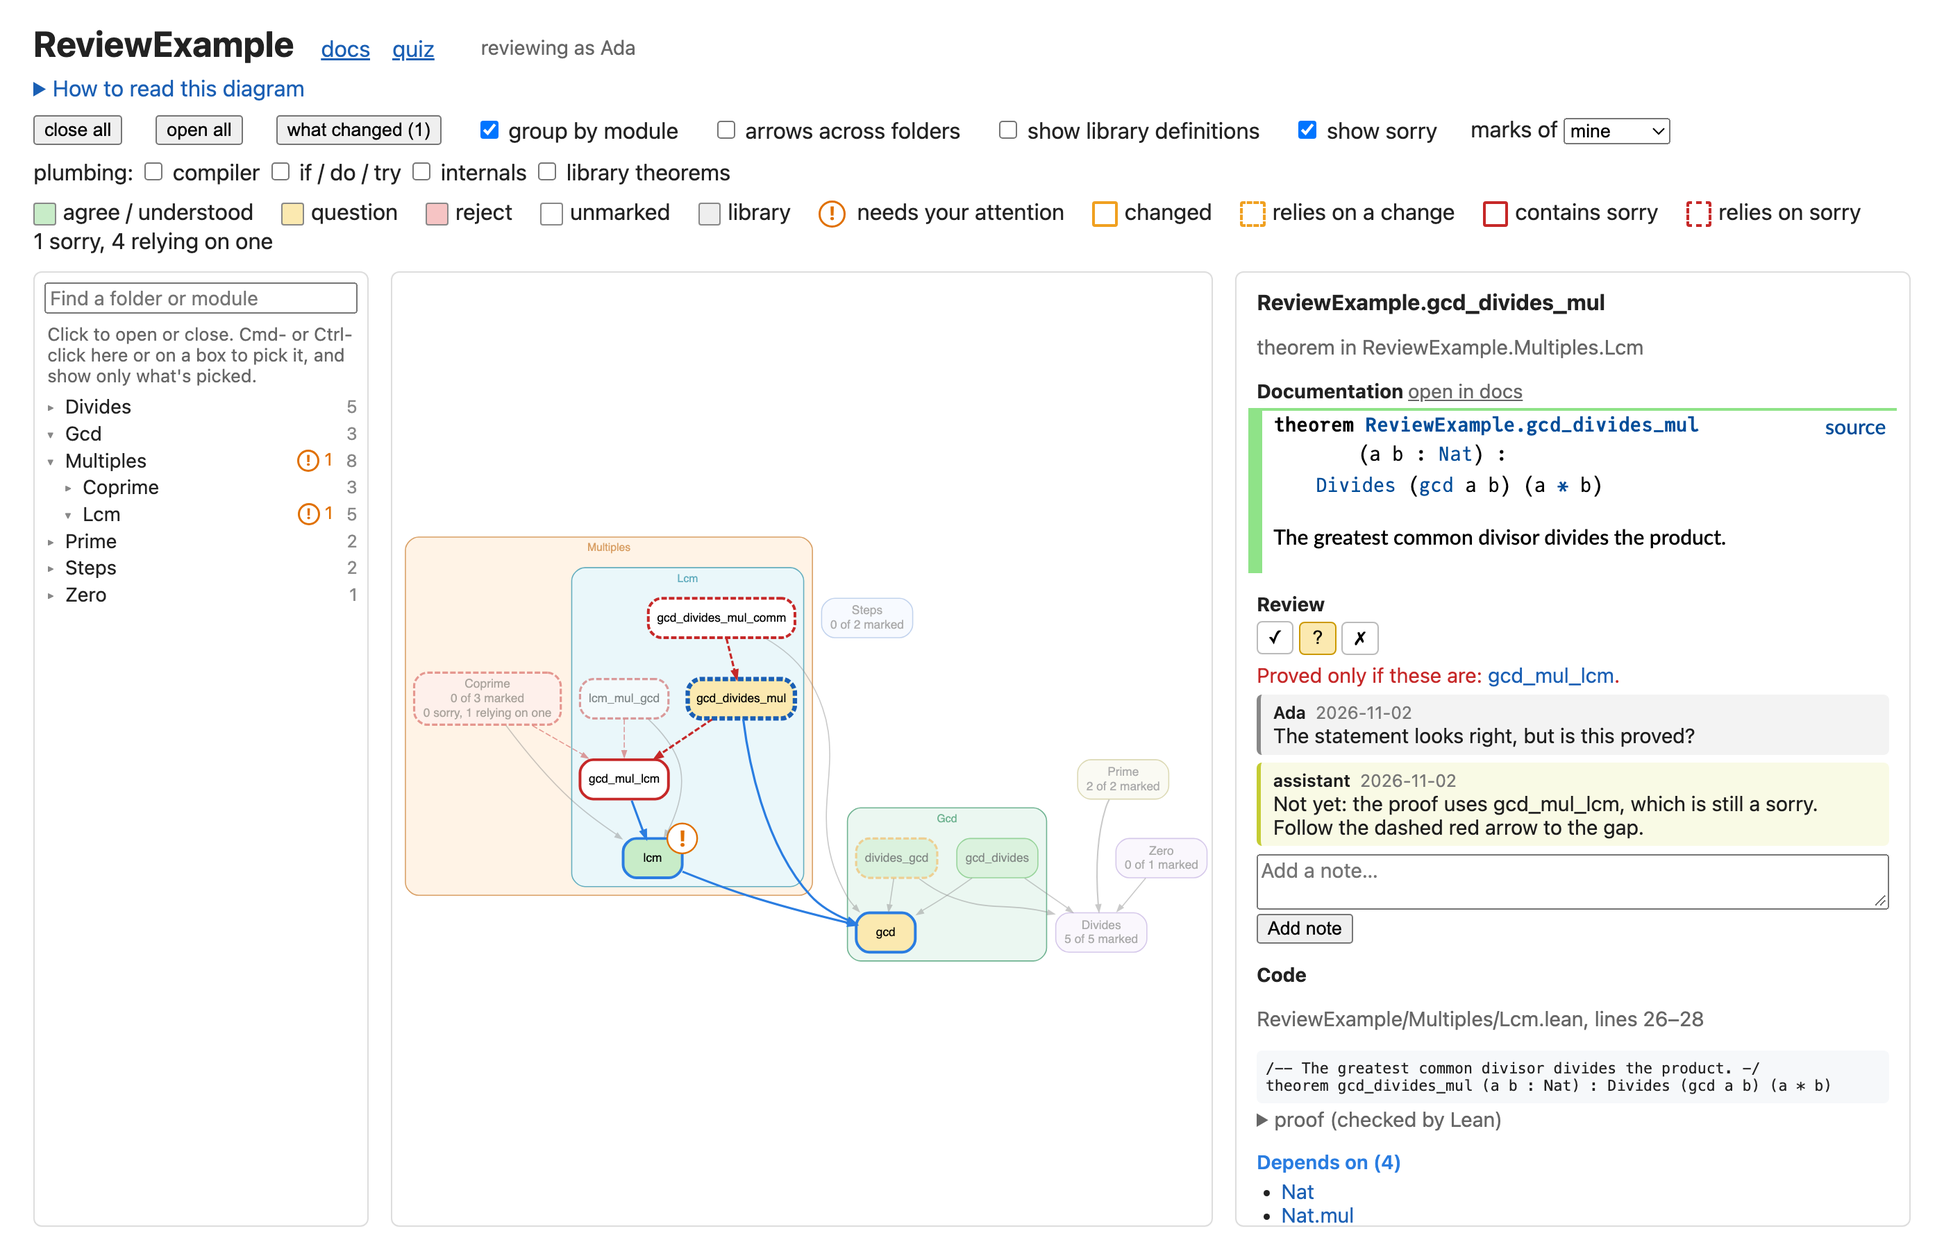
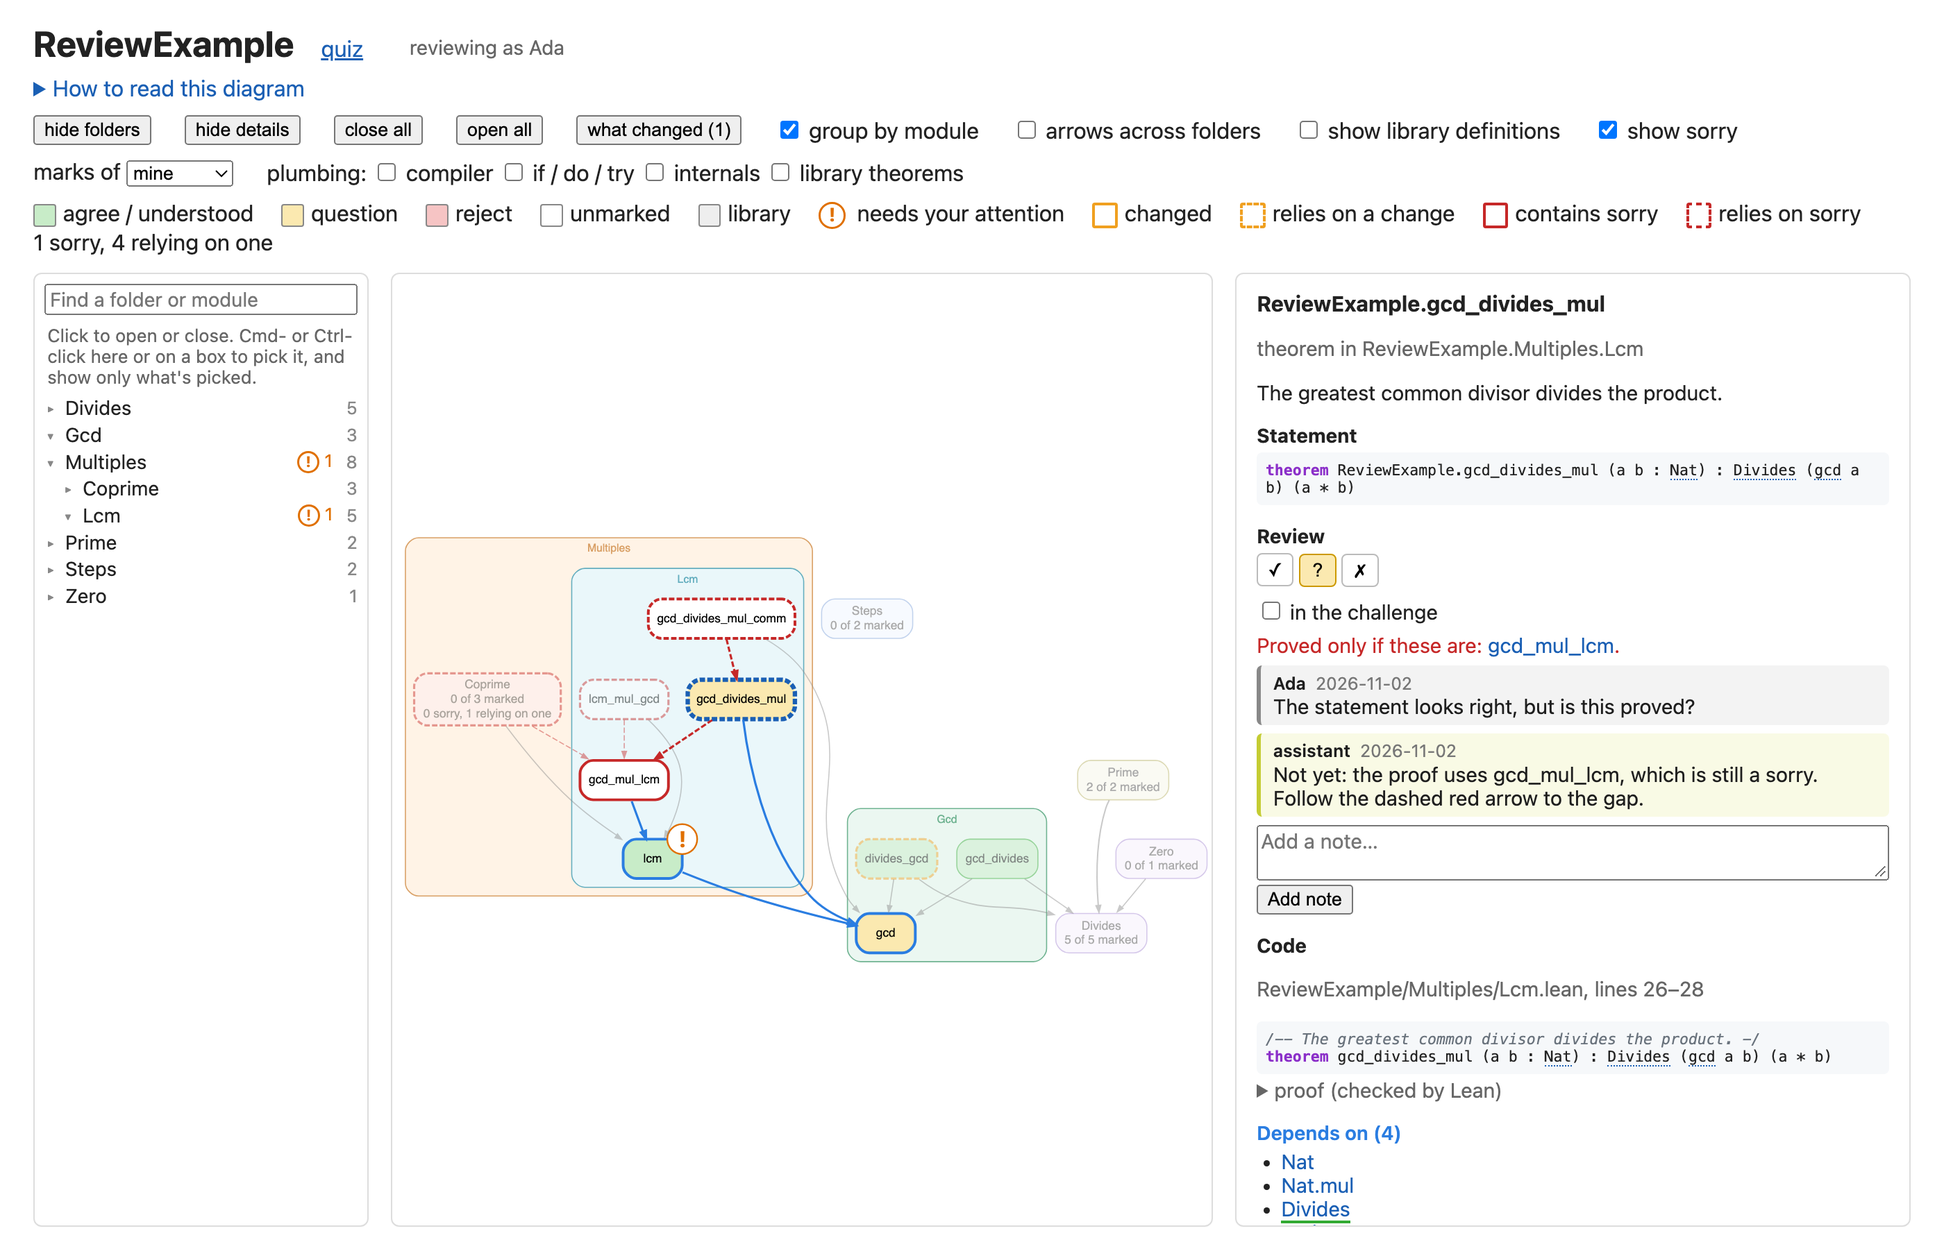
Describe the diagram first, with doc pages as an option
- The README, features, quiz, walkthrough, setup and internals docs now start from what a new
  project shows: the diagram, whose sidebar has the docstring, statement and code. Doc pages are
  described as what --docs adds.
- Screenshots of the diagram and quiz mode show a project without doc pages; the rest are labelled
  as doc pages. The walkthrough's two Prime pictures became one.
- The graph program reports progress only when lean-vouch asks, so scripts that run it directly
  stay quiet.

diff --git a/lean_vouch/cli.py b/lean_vouch/cli.py
@@ -436,7 +436,8 @@ def build_graph(modules):
     with Terminal("graph") as terminal, tempfile.TemporaryFile("w+", encoding="utf-8", errors="replace") as printed:
         with subprocess.Popen(["lake", "env", *program, *modules], stdout=printed, stderr=subprocess.PIPE, text=True,
                               encoding="utf-8", errors="replace",
-                              env={**os.environ, "LEAN_VOUCH_GRAPH": str(new.resolve())}) as process:
+                              env={**os.environ, "LEAN_VOUCH_GRAPH": str(new.resolve()),
+                                   "LEAN_VOUCH_PROGRESS": "1"}) as process:
             for line in process.stderr:
                 if found := PROGRESS.match(line.strip()):
                     phase, count, total = found[1], int(found[2]), int(found[3])

diff --git a/docs/features.md b/docs/features.md
@@ -1,6 +1,7 @@
 # Features
 
-Under every declaration:
+For every declaration, in the diagram's sidebar, and under it on its doc page if you build them
+(`--docs`):
 
 - **A mark:** ✓ agree, ? question, ✗ reject how it's defined. Click it again to clear it.
 - **A note thread,** for questions and answers, from everyone reviewing.
@@ -14,18 +15,22 @@ Under every declaration:
 - **Accept change** keeps a flagged mark for the current version. It covers that one mark: accepting a
   change below doesn't accept what's built on it.
 - **The library definitions it uses** ("Uses from libraries: `Nat`, `Nat.mod`").
-- **Its equations, open.** doc-gen4 folds a definition's equations; for review they are what you
-  check, so project declarations show them open, on the pages and in the diagram's sidebar.
-  "open equations" at the bottom of the page switches this off (remembered per browser). Library
-  pages keep doc-gen4's folding.
+- **What it says.** The sidebar shows its docstring, its statement as Lean understood it, with every
+  argument, including those a `variable` adds that its source text doesn't show, and its code as
+  written, colored, with names linked to their own entries and a theorem's proof folded. With doc
+  pages, the sidebar shows doc-gen4's rendering instead.
+- **Its equations, open,** on doc pages. doc-gen4 folds a definition's equations; for review they are
+  what you check, so project declarations show them open. "open equations" at the bottom of the page
+  switches this off (remembered per browser). Library pages keep doc-gen4's folding.
 
 Across the project:
 
 - **What changed,** on the pages and in the diagram: every change, lowest first, with how many marks
   rely on it. In the diagram a solid orange border is what changed and a dashed one what relies on it,
   and selecting a flagged declaration lights the way down to the change.
-- **Library definitions can be marked too,** on their own doc pages, meaning "I understand this",
-  so you record what `%` on `Nat` means to you once, for every use.
+- **Library definitions can be marked too,** meaning "I understand this", so you record what `%` on
+  `Nat` means to you once, for every use: in the diagram, with "show library definitions" on, or on
+  their own doc pages.
 - **A challenge for comparator:** choose the theorems that matter, and lean-vouch writes their
   statements and everything beneath them as a challenge for `lake comparator`, checked to say what
   the project says. See [challenges](challenge.md).
@@ -34,9 +39,9 @@ Across the project:
   move or delete; none disappear silently.
 - **A dependency diagram,** on its own page: a Hasse diagram of the project's declarations (and
   optionally the library definitions they use), colored by your marks. Clicking a node highlights
-  what it depends on and what depends on it, and opens a sidebar with its mark and notes (editable
-  there), its code (a theorem's proof collapsed), and its direct dependencies and dependents.
-  "hide folders" and "hide details" hide the panels on either side, for a larger diagram.
+  what it depends on and what depends on it, and opens a sidebar with what it says, its mark and
+  notes, and its direct dependencies and dependents. "hide folders" and "hide details" hide the
+  panels on either side, for a larger diagram.
 - **What a `sorry` reaches,** on by default if the project has one. A declaration that contains
   `sorry` gets a red border, and whatever relies on it a dashed one, even if only through a proof,
   with dashed red arrows leading to it step by step. Folders count both, and the pages name the `sorry`s each declaration depends on. A mark is about the
@@ -63,10 +68,24 @@ With others, and with assistants ([how to share marks](setup.md#working-with-oth
 - **Live updates:** marks and notes appear on open pages by themselves. Pages say when the code has
   changed since the last build, with a button to [rebuild](setup.md#rebuilding), show how far a
   rebuild has got, and offer to reload when it's done.
+- **Doc pages,** with `--docs`: every module's doc-gen4 page, with the review controls under each
+  declaration, to read a module from top to bottom.
 
 ## Screenshots
 
 From the [example](development.md#example), with its example marks.
+
+**The dependency diagram:** `gcd` selected, with what depends on it highlighted, modules boxed,
+and the sidebar showing its docstring, statement, review and code.
+
+![the dependency diagram with gcd selected](images/diagram.png)
+
+In the diagram, solid red borders mark a `sorry`, dashed ones what relies on it, and dashed red arrows
+how. Shift-click one to color all it reaches.
+
+![the diagram with a sorry](images/sorry-diagram.png)
+
+The rest are doc pages, from a run with `--docs`.
 
 **A declaration under review:** its mark, the library definitions it uses, and a note thread.
 
@@ -81,20 +100,10 @@ mark flagged because something below it changed.
 
 ![Nat.mod marked as understood](images/library-mark.png)
 
-**The dependency diagram:** `gcd` selected, with what depends on it highlighted, modules boxed,
-and the sidebar showing its documentation, review and code.
-
-![the dependency diagram with gcd selected](images/diagram.png)
-
 **A `sorry` and what relies on it:** `gcd_mul_lcm` isn't proved, so `gcd_divides_mul` holds only if it
 is, which a reviewer has asked about. Its statement never mentions `gcd_mul_lcm`; the proof does.
 
 ![a sorry and a theorem that relies on it](images/sorry.png)
-
-In the diagram, solid red borders mark a `sorry`, dashed ones what relies on it, and dashed red arrows
-how. Shift-click one to color all it reaches.
-
-![the diagram with a sorry](images/sorry-diagram.png)
 
 **Orphaned notes,** left behind when a declaration is removed, or when a run leaves out its library.
 

diff --git a/docs/internals.md b/docs/internals.md
@@ -13,6 +13,9 @@
   inside a definition's body. Each group is hidden by default and can be switched on under "show
   plumbing" in the pages and on the diagram page (remembered per browser). A hidden group is
   neither listed nor counted when deciding whether a mark needs re-checking.
+- **What a reviewer reads:** each project declaration's signature, printed by Lean from inside the
+  declaration's own namespace, so it shows every argument, including those a `variable` adds, and
+  its docstring. Pages without doc-gen4 show these, and quiz mode asks from them.
 - **Gaps:** what a declaration's proof rests on is worked out as `#print axioms` does, through proofs
   and all, and each `sorry` is named by the declaration it's written in. Each step toward a `sorry`
   is kept, and no other proof dependency, so a project with none has nothing extra in its graph. This
@@ -83,10 +86,11 @@ Three things are versioned separately:
 
 | Path | What it does |
 | --- | --- |
-| `lean_vouch/cli.py` | The `lean-vouch` command: sets up `.lean-vouch/`, builds the docs and graph, and starts the server. `review.py` runs it from a clone. |
-| `lean_vouch/graph/DeclGraph.lean` | Run inside a Lake project; writes the declaration graph as JSON: the project's modules and their imports, each declaration's dependencies, library uses, and each one's fingerprint, `own`. |
-| `lean_vouch/server.py` | Serves the doc-gen4 output with the review script added; keeps each person's marks and notes in their own file and gives pages one view of them; applies renames. Python standard library only. |
-| `lean_vouch/web/review.js`, `review.css` | The controls in the pages. |
-| `lean_vouch/web/links.js`, `math.js` | What the pages share: rewriting links, noticing changes while a page is open, and typesetting math. |
+| `lean_vouch/cli.py` | The `lean-vouch` command: sets up `.lean-vouch/`, builds the graph and, if asked, the docs, writes challenges, and starts the server. `review.py` runs it from a clone. |
+| `lean_vouch/graph/DeclGraph.lean` | Run inside a Lake project, compiled once per Lean version; writes the declaration graph as JSON: the project's modules and their imports, each declaration's dependencies, library uses, signature, docstring and fingerprint, `own`. |
+| `lean_vouch/challenge.py` | Writes a challenge for `lake comparator` from the graph and the source, and checks it by fingerprint. |
+| `lean_vouch/server.py` | Serves the diagram and quiz pages, and doc-gen4's output with the review script added; keeps each person's marks and notes in their own file and gives pages one view of them; applies renames; starts rebuilds and challenges for pages. Python standard library only. |
+| `lean_vouch/web/review.js`, `review.css` | The controls in the doc pages. |
+| `lean_vouch/web/links.js`, `math.js`, `lean.js` | What the pages share: rewriting links, noticing changes and rebuilds while a page is open, typesetting math, and coloring Lean code and rendering docstrings without doc-gen4. |
 | `lean_vouch/web/quiz.html` | Quiz mode: blind descriptions of declarations at the edge of what you have marked. |
 | `lean_vouch/web/graph.html` | The dependency diagram, laid out by Graphviz (via d3-graphviz, as on Lean blueprint pages). It zooms with the scroll wheel and pans by dragging. |

diff --git a/README.md b/README.md
@@ -1,7 +1,8 @@
 # lean-vouch
 
 lean-vouch helps you check that Lean definitions and theorem statements mean what they should.
-It adds review tools to your project's doc-gen4 pages.
+It shows your project as a dependency diagram, where you mark what you've checked, discuss what you
+haven't, and see when something beneath a mark changes.
 
 ![a dependency diagram colored by review marks, with a sorry and what relies on it](https://raw.githubusercontent.com/jjeffrey/lean-vouch/main/docs/images/sorry-diagram.png)
 
@@ -16,11 +17,11 @@ lean-vouch
 
 With uv, install it with `uv tool install lean-vouch`.
 
-Then open <http://127.0.0.1:8797/review/diagram>. The first run takes a minute or two, or a few
-more with Mathlib. For doc pages as well, with review controls under every declaration, run
-`lean-vouch --docs`: the first time takes about 7 minutes, or about 35 with Mathlib, and the project
-keeps them from then on. Later runs take seconds. Your marks and notes are in `.lean-vouch/marks/`,
-which git tracks unless you opt out; quiz answers stay local.
+Then open <http://127.0.0.1:8797/review/diagram>. Once the project itself builds, the first run
+takes a minute or two, a little more with Mathlib. For doc pages as well, with review controls under
+every declaration, run `lean-vouch --docs`: the first time takes about 7 minutes, or about 35 with
+Mathlib, and the project keeps them from then on. Later runs take seconds. Your marks and notes are
+in `.lean-vouch/marks/`, which git tracks unless you opt out; quiz answers stay local.
 
 > [!WARNING]
 > Only run this on code you trust. Building a Lean project runs its macros and build scripts, and the
@@ -31,11 +32,16 @@ which git tracks unless you opt out; quiz answers stay local.
 - **Marks and notes** on every declaration, each person's in their own file.
 - **Change tracking:** flags when something you marked, or anything below it, changes, and shows the
   way down to what changed.
-- **A dependency diagram** colored by your marks.
+- **A dependency diagram** colored by your marks, which opens as folders on a large project. Each
+  declaration shows its docstring, its statement as Lean understood it, and its code.
 - **`sorry` tracing:** everything that relies on one, even through proofs.
 - **Quiz mode:** read a statement with its name hidden, say what it means, then compare.
 - **Working together:** others' marks and questions beside yours, from people or assistants, live on
   open pages.
+- **Challenges for `lake comparator`:** the statements you've chosen and reviewed, written out so
+  comparator can hold the project to them.
+- **Doc pages, if you want them:** the same review controls under each declaration on its doc-gen4
+  page.
 
 lean-vouch is a review aid, not a checker: for soundness, use `lake check` or `lake comparator`, in
 Lean v4.35 or newer. lean-vouch is still early: it handles projects as large as Mathlib, but has

diff --git a/docs/usage.md b/docs/usage.md
@@ -21,8 +21,8 @@ unfixed, with marks that show it partway through review, so you can follow along
 
 ## 1. Noticing it
 
-You might notice it reading `Prime` on its docs page, where lean-vouch adds a review box under
-every declaration, or in the diagram's sidebar. [Quiz mode](quiz.md) helps you notice: it shows
+You might notice it reading `Prime` in the diagram's sidebar, which shows its docstring next to its
+statement, or on its docs page, if you build them. [Quiz mode](quiz.md) helps you notice: it shows
 the statement with its name hidden, you write what you think it says, and then you compare. Writing
 "n has no divisors but 1 and n" and then asking "so is 1 prime?" is often where this turns up.
 
@@ -38,7 +38,7 @@ shows them a `!` until they mark or reply.
 
 In the example, Ada rejected `Prime`, and an assistant answered with a fix:
 
-![Prime rejected, with an assistant's suggested fix](images/prime.png)
+![Prime rejected in the diagram's sidebar, with an assistant's suggested fix](images/prime.png)
 
 The marks and notes go in each person's file in `.lean-vouch/marks/`, so an assistant asked to fix
 things can read why you rejected something.
@@ -49,10 +49,8 @@ Open the diagram and Shift-click `Prime`. Everything that depends on it and ever
 on are colored, with how much of each is in each folder. Each theorem in that upper set is about
 this definition of `Prime`, so each may say something other than what was meant, though all of them
 still compile. In the example, Ada agreed with `Prime.coprime` before she noticed: it reads right,
-but it's about this definition. Clicking `Prime` instead shows only what it directly depends on
-and what directly uses it:
-
-![the diagram with Prime selected](images/prime-diagram.png)
+but it's about this definition. Clicking `Prime` instead, as in the picture above, shows only what it
+directly depends on and what directly uses it.
 
 ## 4. Fixing it
 
@@ -79,7 +77,7 @@ After the rebuild, lean-vouch flags every mark the change could affect:
   has a solid orange border, and what relies on it a dashed one. Selecting a flagged declaration
   lights the way down to the change.
 
-With the fix, in a copy of the example:
+With the fix, in a copy of the example, on its doc page:
 
 ![Prime and Prime.coprime flagged after the fix](images/prime-fixed.png)
 

diff --git a/docs/quiz.md b/docs/quiz.md
@@ -1,7 +1,8 @@
 # Quiz mode
 
-A mark records what you think you understand; quiz mode checks it. Open "quiz" from the bar at the
-bottom of any page (or `/review/quiz?name=Full.Name` for a particular declaration).
+A mark records what you think you understand; quiz mode checks it. Open "quiz" at the top of the
+diagram, or from the bar at the bottom of a doc page (or `/review/quiz?name=Full.Name` for a
+particular declaration).
 
 ![quiz mode, with a statement to describe and its name hidden](images/quiz.png)
 
@@ -9,10 +10,11 @@ bottom of any page (or `/review/quiz?name=Full.Name` for a particular declaratio
   "Quiz this" on a box in the diagram. By default it picks declarations at the edge of what you have
   marked: unmarked, with at least half of what they use marked, after any changed since you marked
   them. Or choose random order, from everything unmarked or changed. Either way ties are shuffled.
-- **You see the statement only:** its header as doc-gen4 renders it and its code as written (a
-  theorem's statement without the proof), with the name hidden, even in recursive calls, and comments,
-  including the docstring, removed. You write what it says and the name you would give it; the
-  namespace is filled in, and an instance's name isn't asked for.
+- **You see the statement only:** as Lean understood it, with every argument, and its code as
+  written (a theorem's statement without the proof), with the name hidden, even in recursive calls,
+  and comments, including the docstring, removed. With doc pages, the statement is doc-gen4's. You
+  write what it says and the name you would give it; the namespace is filled in, and an instance's
+  name isn't asked for.
 - **Then its real name and docstring are shown next to yours.** Your answer is saved first, in your
   own quiz file, which git ignores by default, and shows under the declaration for you alone. You say
   whether your reading matched, which is recorded apart from your mark: reading a statement right isn't agreeing with it. A mismatch is

diff --git a/docs/setup.md b/docs/setup.md
@@ -38,7 +38,15 @@ everything the project imports:
 | Using Mathlib | about 35 minutes | 2 GB |
 | All of Mathlib | about 70 minutes | 4 GB, and about 6 GB of memory |
 
-Warnings from the project's own build are left out, since `lake build` shows them, though a failing build shows everything. It doesn't recompile Mathlib. The graph step needs up to about 6 GB of memory for a project on the scale of Mathlib. Lake's `[n/m]` total grows as it finds more to build, so the progress can seem to go backwards.
+Without doc pages, a run is the project's build and the declaration graph. For a project of about
+12,000 declarations on Mathlib, the graph takes one to two minutes the first time, half of it Lean
+loading the project and Mathlib, and shows a progress bar through its phases as it goes. Later runs
+reuse the graph unless something it's made from changed. The graph step needs up to about 6 GB of
+memory for a project on the scale of Mathlib.
+
+Warnings from the project's own build are left out, since `lake build` shows them, though a failing
+build shows everything. It doesn't recompile Mathlib. Lake's `[n/m]` total grows as it finds more to
+build, so the progress can seem to go backwards.
 
 When the project moves to another Lean version, the next run moves `docbuild/` to the matching doc-gen4 and builds the docs again, which takes about as long as the first run. When the project's dependencies change on the same Lean, the next run's docs follow them.
 
